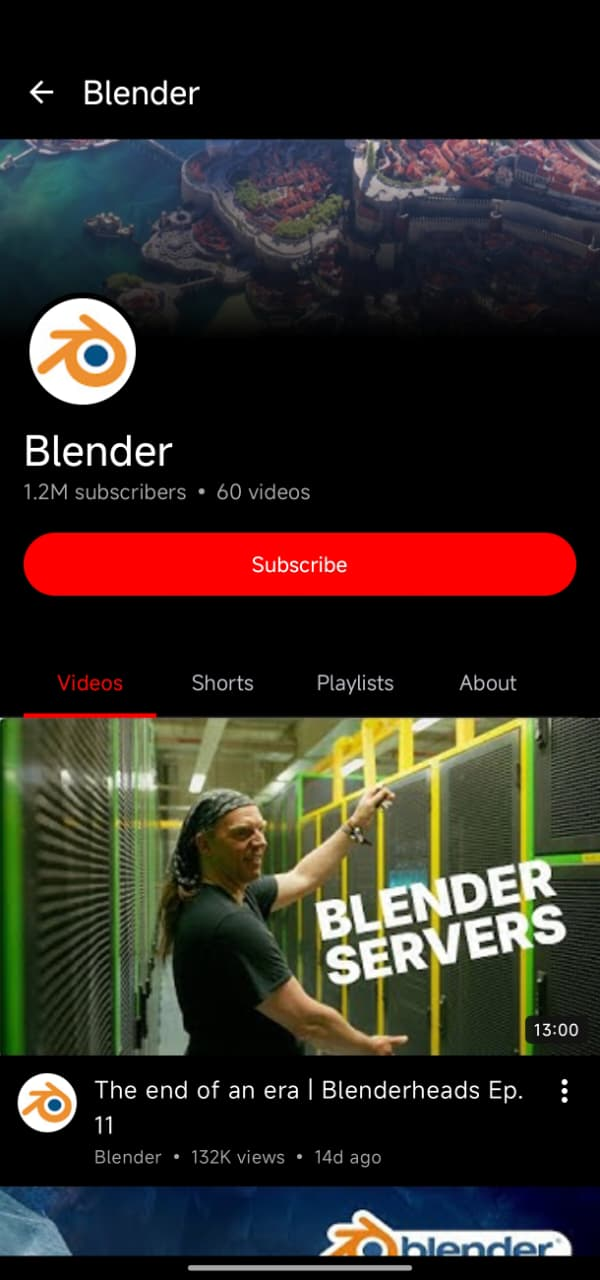
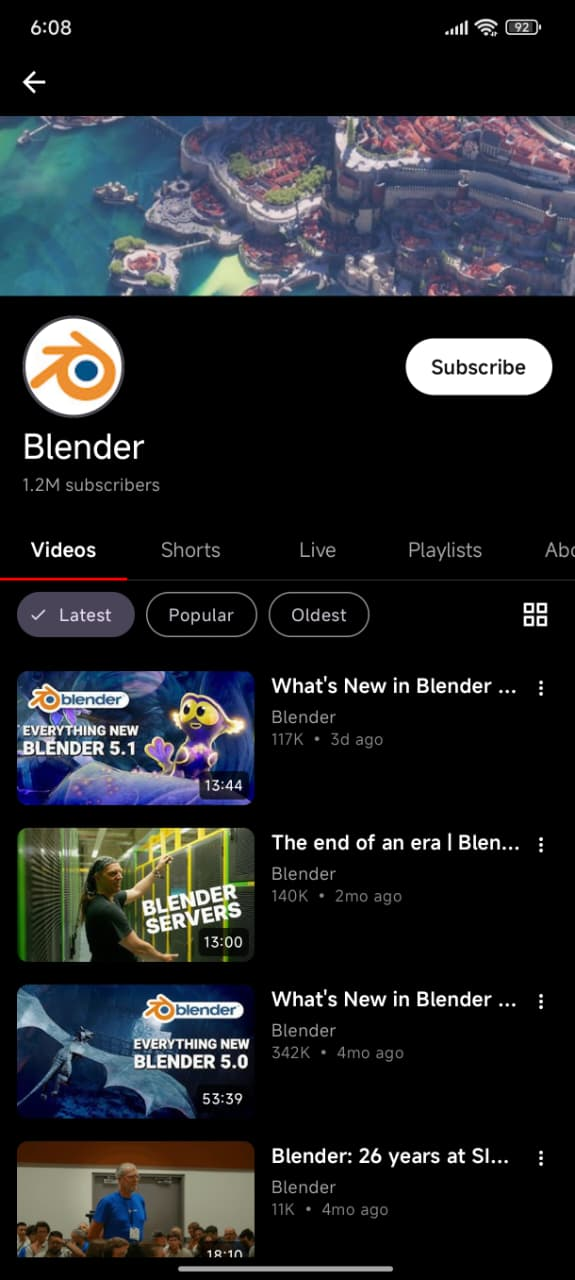
style: immersive music player with dynamic color extraction

diff --git a/app/src/main/java/io/github/aedev/flow/ui/screens/music/EnhancedMusicPlayerScreen.kt b/app/src/main/java/io/github/aedev/flow/ui/screens/music/EnhancedMusicPlayerScreen.kt
@@ -49,6 +49,12 @@ import coil.compose.AsyncImage
 import kotlinx.coroutines.delay
 import kotlinx.coroutines.launch
 import kotlin.math.roundToInt
+import androidx.compose.animation.animateColorAsState
+import androidx.palette.graphics.Palette
+import coil.imageLoader
+import coil.request.ImageRequest
+import coil.request.SuccessResult
+import androidx.core.graphics.drawable.toBitmap
 
 import io.github.aedev.flow.R
 import io.github.aedev.flow.player.EnhancedMusicPlayerManager
@@ -58,7 +64,7 @@ import io.github.aedev.flow.ui.screens.music.player.*
 import io.github.aedev.flow.ui.components.MusicQuickActionsSheet
 import androidx.compose.foundation.clickable
 
-private val PlayerHorizontalPadding = 32.dp
+private val PlayerHorizontalPadding = 28.dp
 
 @OptIn(ExperimentalMaterial3Api::class)
 @Composable
@@ -75,6 +81,38 @@ fun EnhancedMusicPlayerScreen(
     val density = LocalDensity.current
     
     val isVideoMode = false 
+    var sheetColor by remember { mutableStateOf<Color?>(null) }
+    
+    val thumbnailUrl = uiState.currentTrack?.highResThumbnailUrl ?: track.highResThumbnailUrl
+    LaunchedEffect(thumbnailUrl) {
+        if (thumbnailUrl.isNotEmpty()) {
+            val request = ImageRequest.Builder(context)
+                .data(thumbnailUrl)
+                .allowHardware(false)
+                .size(128)
+                .build()
+            val result = context.imageLoader.execute(request)
+            if (result is SuccessResult) {
+                val bitmap = result.drawable.toBitmap()
+                val palette = Palette.from(bitmap).generate()
+                val swatch = palette.darkMutedSwatch ?: palette.darkVibrantSwatch ?: palette.dominantSwatch
+                if (swatch != null) {
+                    sheetColor = Color(swatch.rgb)
+                } else {
+                    sheetColor = null
+                }
+            } else {
+                sheetColor = null
+            }
+        }
+    }
+    
+    val defaultSheetColor = MaterialTheme.colorScheme.surface
+    val animatedSheetColor by animateColorAsState(
+        targetValue = sheetColor ?: defaultSheetColor,
+        animationSpec = tween(1000),
+        label = "sheetColor"
+    )
     var showMoreOptions by remember { mutableStateOf(false) }
     var showAudioSettings by remember { mutableStateOf(false) }
     var showInfoDialog by remember { mutableStateOf(false) }
@@ -202,10 +240,10 @@ fun EnhancedMusicPlayerScreen(
         val statusBarPadding = WindowInsets.statusBars.asPaddingValues().calculateTopPadding()
         val navBarPx = with(density) { navBarPadding.toPx() }
 
-        val reservedHeight = statusBarPadding + 56.dp + 60.dp + 40.dp + 72.dp + 84.dp + queuePeekHeight + navBarPadding
+        val reservedHeight = statusBarPadding + 56.dp + 32.dp + 32.dp + 20.dp + 72.dp + queuePeekHeight + navBarPadding
         val availableForArtwork = screenHeight - reservedHeight
         val artworkMaxWidth = screenWidth - (PlayerHorizontalPadding * 2)
-        val artworkSize = min(availableForArtwork, artworkMaxWidth).coerceAtLeast(120.dp)
+        val artworkSize = min(availableForArtwork, artworkMaxWidth).coerceAtLeast(160.dp)
 
         val maxHeightPx = constraints.maxHeight.toFloat()
         val queuePeekPx = with(density) { queuePeekHeight.toPx() }
@@ -276,7 +314,7 @@ fun EnhancedMusicPlayerScreen(
                 onSleepTimerClick = { showSleepTimer = true },
                 onMoreOptionsClick = { showMoreOptions = true }
             )
-            Spacer(modifier = Modifier.height(48.dp))
+            Spacer(modifier = Modifier.height(40.dp))
 
             // ── Artwork ──
             Box(
@@ -384,7 +422,7 @@ fun EnhancedMusicPlayerScreen(
                 modifier = Modifier.padding(horizontal = PlayerHorizontalPadding)
             )
 
-            Spacer(modifier = Modifier.height(40.dp))
+            Spacer(modifier = Modifier.height(32.dp))
 
             // ── Playback Controls ──
             PlayerPlaybackControls(
@@ -518,6 +556,7 @@ fun EnhancedMusicPlayerScreen(
                 )
         ) {
             UnifiedPlayerSheet(
+                sheetBackgroundColor = animatedSheetColor,
                 currentTab = currentTab,
                 onTabSelect = { currentTab = it },
                 isExpanded = queueFraction > 0.5f,

diff --git a/app/src/main/java/io/github/aedev/flow/ui/screens/music/player/UnifiedPlayerSheet.kt b/app/src/main/java/io/github/aedev/flow/ui/screens/music/player/UnifiedPlayerSheet.kt
@@ -31,6 +31,7 @@ enum class PlayerTab {
 
 @Composable
 fun UnifiedPlayerSheet(
+    sheetBackgroundColor: Color = MaterialTheme.colorScheme.surface,
     currentTab: PlayerTab,
     onTabSelect: (PlayerTab) -> Unit,
     isExpanded: Boolean,
@@ -60,7 +61,7 @@ fun UnifiedPlayerSheet(
 ) {
     Surface(
         modifier = modifier.fillMaxSize(),
-        color = MaterialTheme.colorScheme.surface,
+        color = sheetBackgroundColor,
         shape = RoundedCornerShape(topStart = sheetCornerRadius, topEnd = sheetCornerRadius),
         shadowElevation = 24.dp,
         tonalElevation = 6.dp
